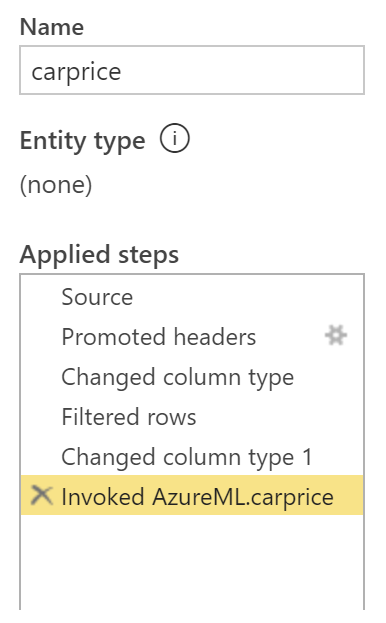
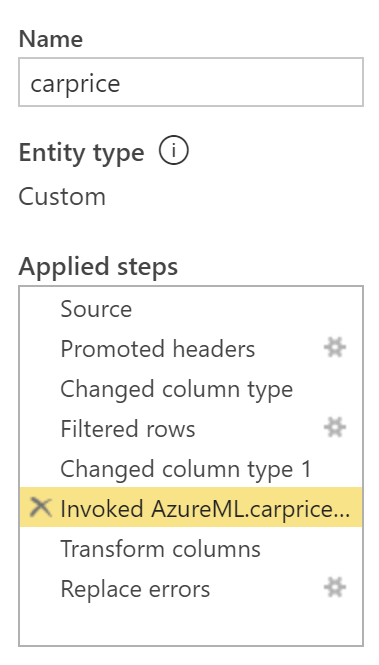
pbi image updates

Changed region(s): [[0.029, 0.366, 0.9578, 0.9759], [0.029, 0.0305, 0.9578, 0.2745], [0.029, 0.2135, 0.3773, 0.3355]]

diff --git a/visual-interface/README.md b/visual-interface/README.md
@@ -3,6 +3,5 @@
 ## Create an Visual interface Experiment
 
 
-
-![createviexp](https://raw.githubusercontent.com/DataSnowman/carprice/master/images/createviexp.png)
+``Note: To be done later since the Visual Interface did not auto-decorate the web service so it can be used in Power BI Dataflows.``
 
